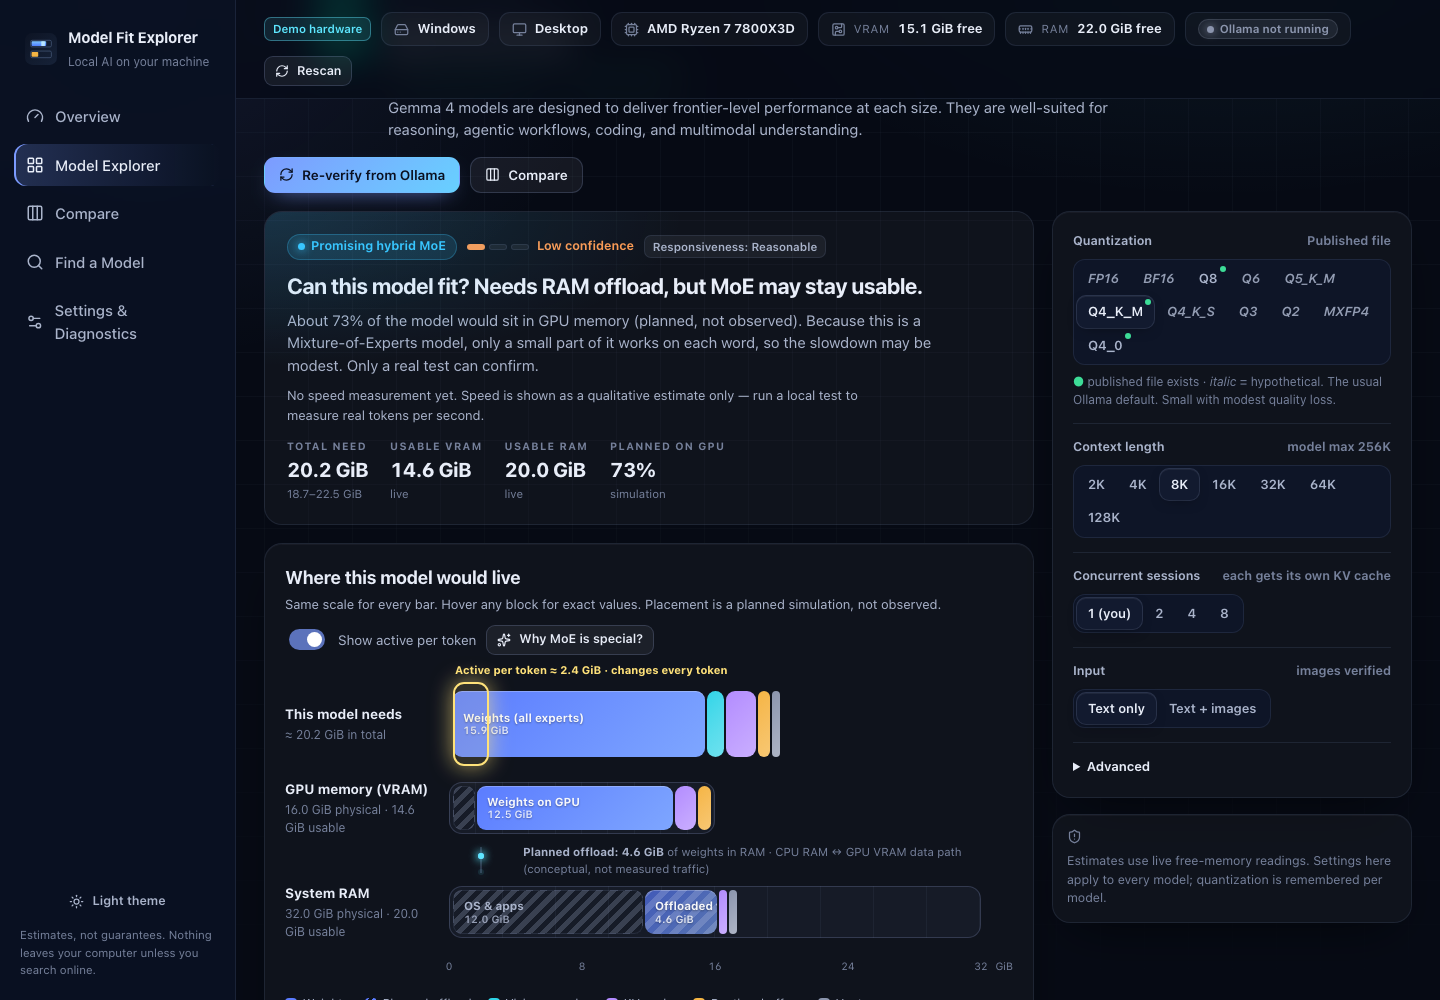
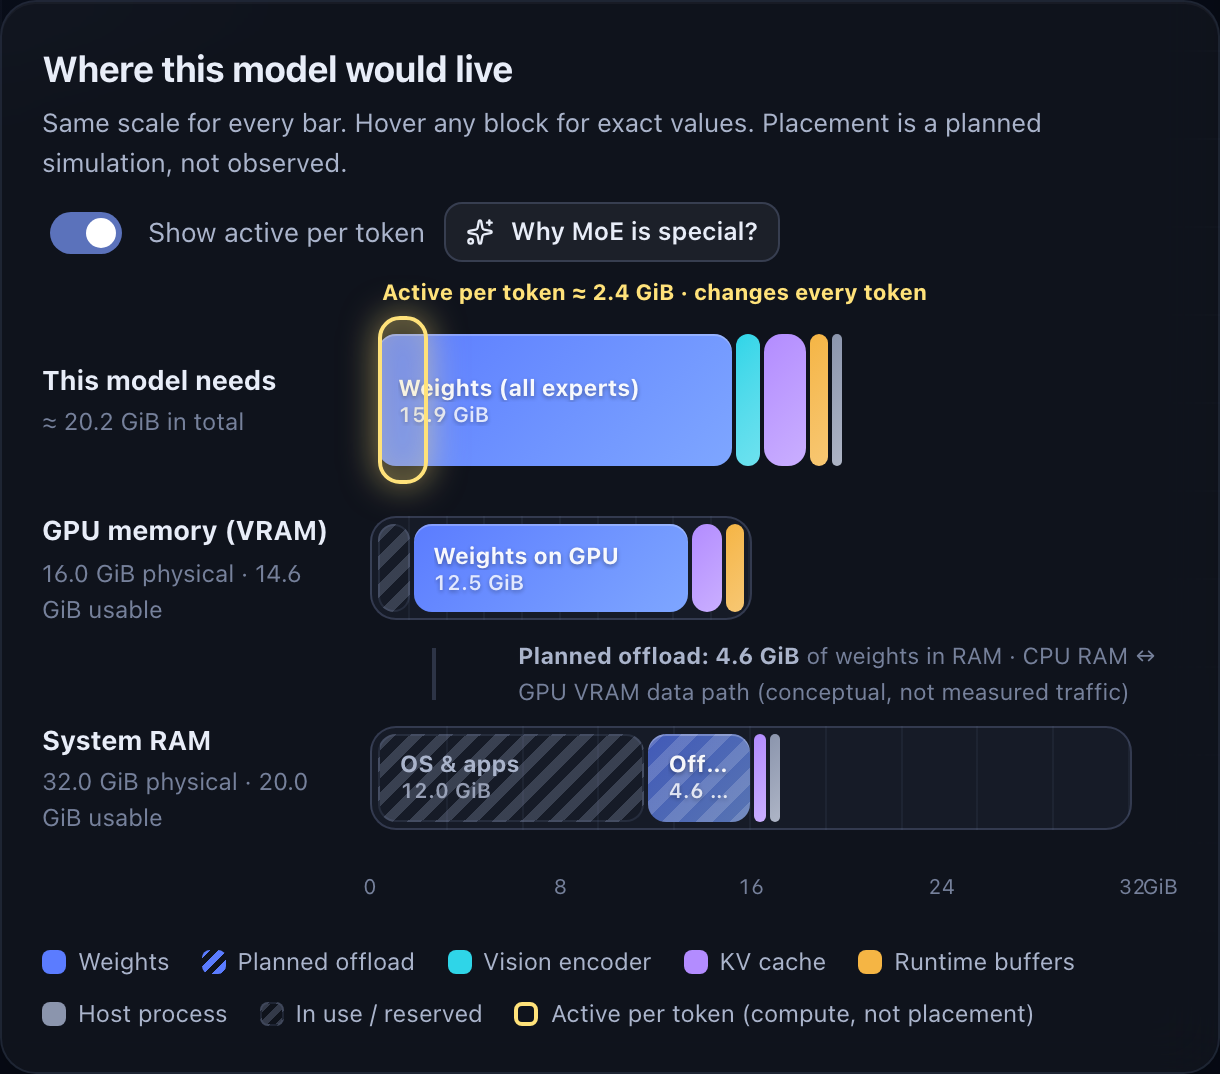
Sharper README screenshots, one per row; tidy segment labels
- Capture docs screenshots at 2x on a 1280px window and crop to the
  relevant card so text is readable on GitHub
- Stack screenshots full-width with short captions
- Remove the Author section from the README
- Ellipsize memory segment labels that don't fit

diff --git a/e2e/docs-screenshots.spec.ts b/e2e/docs-screenshots.spec.ts
@@ -1,25 +1,44 @@
 import { test } from "@playwright/test";
 
-// Generates README screenshots: `npx playwright test e2e/docs-screenshots.spec.ts`
+// Generates README screenshots: `npm run docs:screenshots`
+// Captured at 2× pixel density on a 1280px-wide window so text stays sharp on GitHub.
 test.skip(!process.env.DOCS_SCREENSHOTS, "set DOCS_SCREENSHOTS=1 to regenerate docs images");
+test.use({ viewport: { width: 1280, height: 820 }, deviceScaleFactor: 2 });
 
-const shots: [string, string, Record<string, unknown>, boolean][] = [
-  ["overview", "#/overview", { demoId: "desktop-16g" }, false],
-  ["explorer", "#/explore", { demoId: "desktop-16g" }, false],
-  ["detail-moe", "#/model/gemma4%3A26b", { demoId: "desktop-16g" }, false],
-  ["detail-unified", "#/model/qwen3%3A30b", { demoId: "mac-m3pro-36" }, false],
-  ["compare", "#/compare", { demoId: "mac-m3pro-36", compare: ["gemma4:26b", "qwen3:30b", "gemma3:27b", "llama3.1:8b"] }, false],
-  ["light", "#/overview", { demoId: "mac-m3pro-36", theme: "light" }, false],
+interface Shot {
+  name: string;
+  hash: string;
+  state: Record<string, unknown>;
+  /** CSS selector to crop to (a card), or undefined for the viewport. */
+  clip?: string;
+  scrollTo?: string;
+}
+
+const shots: Shot[] = [
+  { name: "overview", hash: "#/overview", state: { demoId: "desktop-16g" } },
+  { name: "what-can-i-run", hash: "#/overview", state: { demoId: "desktop-16g" }, clip: "section[aria-labelledby='run-title']" },
+  { name: "explorer", hash: "#/explore", state: { demoId: "desktop-16g" } },
+  { name: "detail-verdict", hash: "#/model/gemma4%3A26b", state: { demoId: "desktop-16g" }, clip: ".verdict" },
+  { name: "detail-moe", hash: "#/model/gemma4%3A26b", state: { demoId: "desktop-16g" }, clip: "section[aria-labelledby='viz-title']" },
+  { name: "detail-unified", hash: "#/model/qwen3%3A30b", state: { demoId: "mac-m3pro-36" }, clip: "section[aria-labelledby='viz-title']" },
+  { name: "capabilities", hash: "#/model/gemma3%3A12b", state: { demoId: "desktop-16g" }, clip: "section[aria-labelledby='caps-title']" },
+  { name: "compare", hash: "#/compare", state: { demoId: "mac-m3pro-36", compare: ["gemma4:26b", "qwen3:30b", "gemma3:27b", "llama3.1:8b"] }, clip: "section[aria-labelledby='pressure-title']" },
+  { name: "light", hash: "#/overview", state: { demoId: "mac-m3pro-36", theme: "light" } },
 ];
 
-for (const [name, hash, state, full] of shots) {
-  test(`docs: ${name}`, async ({ page }) => {
-    await page.addInitScript((s) => localStorage.setItem("model-fit-explorer", JSON.stringify({ state: s, version: 1 })), state);
+for (const s of shots) {
+  test(`docs: ${s.name}`, async ({ page }) => {
+    await page.addInitScript((st) => localStorage.setItem("model-fit-explorer", JSON.stringify({ state: { motion: "reduce", ...st }, version: 1 })), s.state);
     await page.route("**/__proxy/ollama-local/**", (r) => r.abort());
-    await page.goto("/" + hash);
+    await page.goto("/" + s.hash);
     await page.waitForTimeout(1500);
-    if (name.startsWith("detail")) await page.evaluate(() => window.scrollTo(0, 120));
-    await page.waitForTimeout(300);
-    await page.screenshot({ path: `docs/screenshots/${name}.png`, fullPage: full });
+    if (s.clip) {
+      const el = page.locator(s.clip).first();
+      await el.scrollIntoViewIfNeeded();
+      await page.waitForTimeout(300);
+      await el.screenshot({ path: `docs/screenshots/${s.name}.png` });
+    } else {
+      await page.screenshot({ path: `docs/screenshots/${s.name}.png` });
+    }
   });
 }

diff --git a/src/components/MemoryViz.tsx b/src/components/MemoryViz.tsx
@@ -44,7 +44,7 @@ function SegBar({ segs, scale }: { segs: Seg[]; scale: number }) {
             >
               {wide && (
                 <span className="seg-label">
-                  {s.label}
+                  <span>{s.label}</span>
                   <small className="num">{fmtBytes(s.bytes)}</small>
                 </span>
               )}

diff --git a/src/styles/app.css b/src/styles/app.css
@@ -866,6 +866,10 @@ input[type="range"] {
   text-shadow: 0 1px 2px rgba(0, 0, 0, 0.35);
   line-height: 1.2;
 }
+.segm .seg-label > * {
+  overflow: hidden;
+  text-overflow: ellipsis;
+}
 .segm .seg-label small {
   font-weight: 600;
   opacity: 0.85;

diff --git a/README.md b/README.md
@@ -4,7 +4,7 @@
 
 **[▶ Try the web demo](https://maninka123.github.io/local-llm-fit/)** (demo hardware; the desktop app reads your real machine)
 
-![Model detail with the memory placement view](docs/screenshots/detail-moe.png)
+![Your machine and what it can run](docs/screenshots/overview.png)
 
 ## Features
 
@@ -17,9 +17,35 @@
 - **Optional local benchmark** through Ollama (only when you click *Run Test*), comparing predicted and measured memory, TTFT and tok/s.
 - Quantization, context, concurrency and image controls; Compare up to 4 models; CSV/JSON import and export; dark and light themes; keyboard and reduced-motion support.
 
-| Overview | Explorer | Apple Silicon (unified memory) |
-| --- | --- | --- |
-| ![Overview](docs/screenshots/overview.png) | ![Explorer](docs/screenshots/explorer.png) | ![Unified memory](docs/screenshots/detail-unified.png) |
+## Screenshots
+
+**Can this model fit?** A plain-language verdict with confidence, total need and usable memory.
+
+![Verdict for a Mixture-of-Experts model](docs/screenshots/detail-verdict.png)
+
+**Where the model would live.** Weights, KV cache and buffers on the same scale as your VRAM and RAM, with planned offload and the active-per-token overlay.
+
+![Memory placement on a 16 GB GPU](docs/screenshots/detail-moe.png)
+
+**Apple Silicon.** Unified memory is one shared pool, never counted twice.
+
+![Unified memory placement](docs/screenshots/detail-unified.png)
+
+**What can I run?** Choose your inputs (text is always on) and see how the whole catalog fits.
+
+![What can I run](docs/screenshots/what-can-i-run.png)
+
+**Model Explorer.** Search and filter 430+ variants by fit, size, capability and more.
+
+![Model Explorer](docs/screenshots/explorer.png)
+
+**Inputs and outputs.** Verified per tag, with Ollama runtime support shown separately from the model card.
+
+![Capability evidence](docs/screenshots/capabilities.png)
+
+**Compare** up to four models on the same hardware.
+
+![Compare memory pressure](docs/screenshots/compare.png)
 
 ## Get the app
 
@@ -63,10 +89,6 @@ npm run catalog:refresh   # re-verify the catalog against ollama.com (metadata o
 ## Privacy
 
 No telemetry or accounts. Hardware details never leave your computer. Online lookups send only the model name you type (to ollama.com and huggingface.co). Benchmarks and downloads run only after you confirm.
-
-## Author
-
-**Pasindu Ranasinghe**
 
 ## License
 
